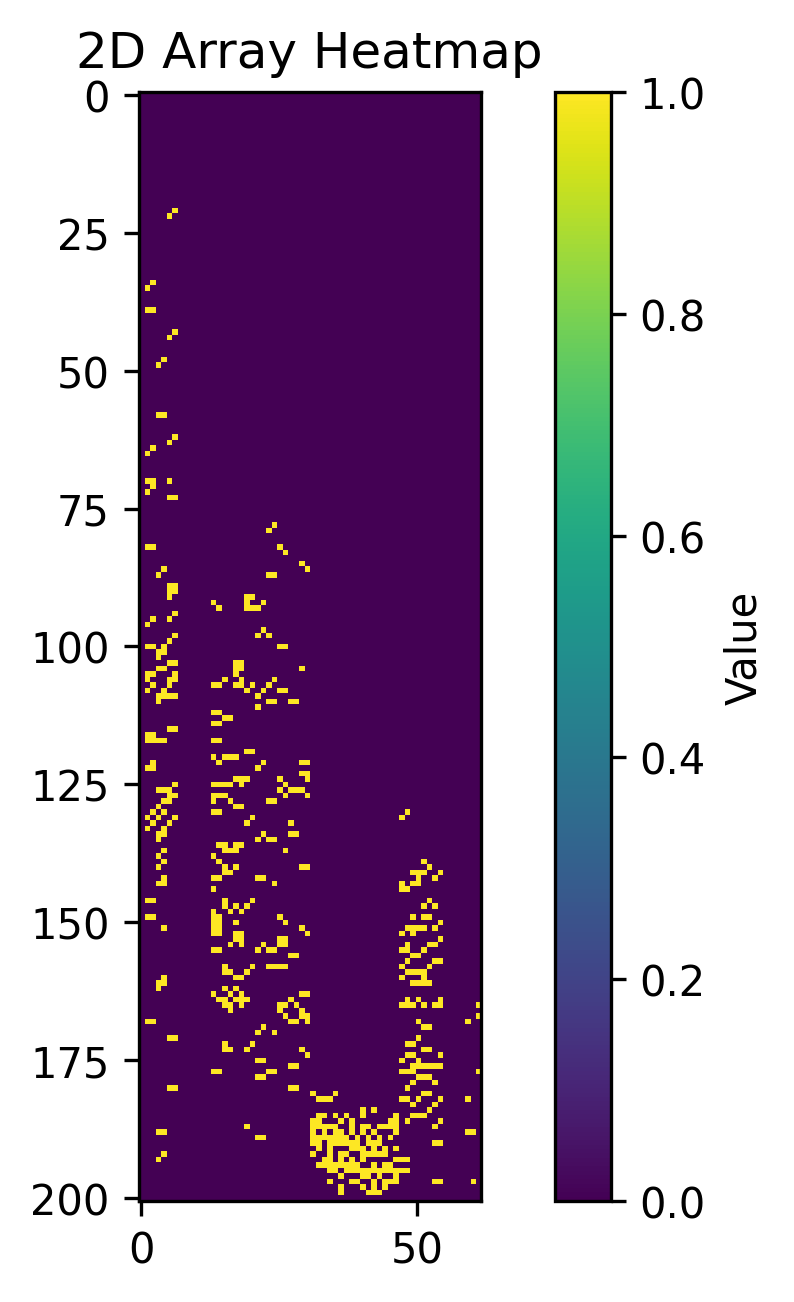
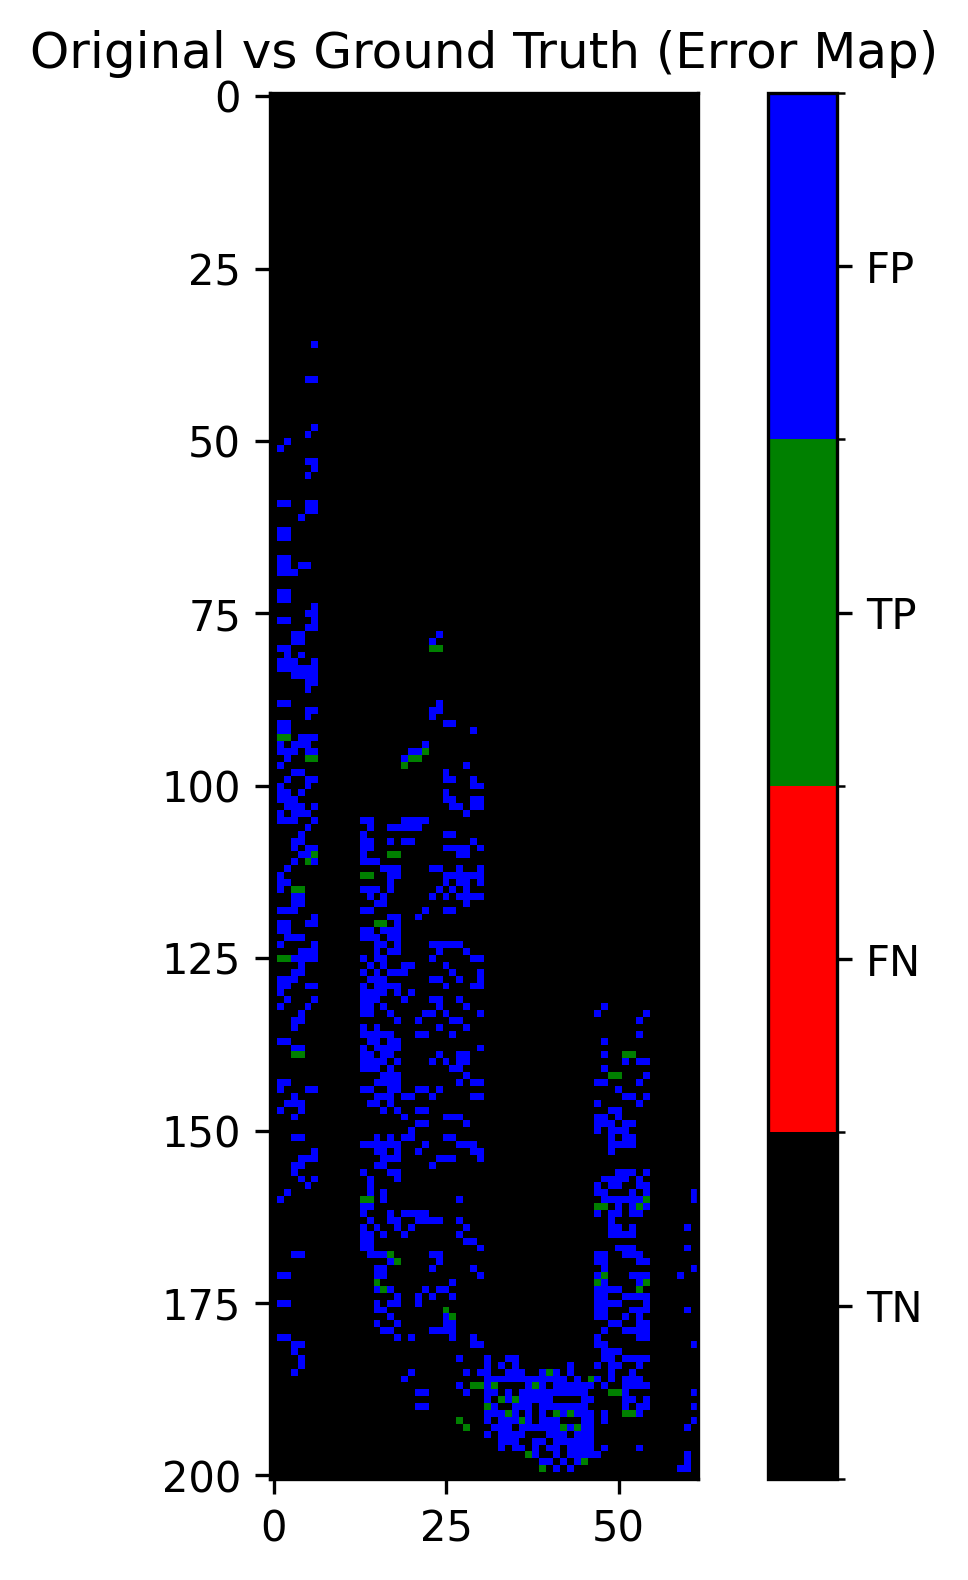
Uncommitted changes

diff --git a/QTracker_prod/models/TrackFinder_unetpp_seg.py b/QTracker_prod/models/TrackFinder_unetpp_seg.py
@@ -10,6 +10,7 @@ import numpy as np
 import ROOT
 import tensorflow as tf
 from tensorflow.keras import layers, regularizers
+import tensorflow.keras.backend as K
 from tensorflow.keras.callbacks import EarlyStopping, ReduceLROnPlateau
 from tensorflow.keras.optimizers import AdamW
 # from tensorflow.keras import mixed_precision
@@ -153,13 +154,6 @@ def train_model(args):
         X_val = denoise_model.predict(X_val)
         X_val = (X_val > 0.5).astype(np.float32)  # Binarize
 
-    lr_scheduler = ReduceLROnPlateau(
-        monitor="val_loss", factor=0.3, patience=args.patience // 3, min_lr=1e-6
-    )
-    early_stopping = EarlyStopping(
-        monitor="val_loss", patience=args.patience, restore_best_weights=True
-    )
-
     model = build_model(
         num_detectors=NUM_DETECTORS,
         num_elementIDs=NUM_ELEMENT_IDS, 
@@ -171,7 +165,7 @@ def train_model(args):
     model.summary()
 
     optimizer = AdamW(
-        learning_rate=args.learning_rate,
+        learning_rate=args.lr_low,
         weight_decay=args.weight_decay,
         clipnorm=args.clipnorm,
     )
@@ -181,6 +175,14 @@ def train_model(args):
     epochs_med = int(args.epochs * args.med_ratio)
     epochs_high = args.epochs
 
+    # Low complexity training
+    lr_scheduler = ReduceLROnPlateau(
+        monitor="val_loss", factor=args.factor, patience=args.lr_patience, min_lr=1e-6
+    )
+    early_stopping = EarlyStopping(
+        monitor="val_loss", patience=args.patience, restore_best_weights=False
+    )
+
     model.fit(
         X_train_low,
         y_train_low,
@@ -188,11 +190,12 @@ def train_model(args):
         epochs=epochs_low,
         batch_size=args.batch_size,
         validation_data=(X_val, y_val),
-        callbacks=[lr_scheduler],
+        callbacks=[lr_scheduler, early_stopping],
     )
     del X_train_low, y_train_low
     gc.collect()
 
+    # Medium complexity training
     X_train_med, y_muPlus_train_med, y_muMinus_train_med = load_data(args.train_root_file_med)
     if X_train_med is None:
         return
@@ -205,6 +208,15 @@ def train_model(args):
     y_train_med = np.stack(
         [y_muPlus_train_med, y_muMinus_train_med], axis=1
     )  # Shape: (num_events, 2, 62)
+
+    K.set_value(model.optimizer.learning_rate, args.lr_med)
+    lr_scheduler = ReduceLROnPlateau(
+        monitor="val_loss", factor=args.factor, patience=args.lr_patience, min_lr=1e-6
+    )
+    early_stopping = EarlyStopping(
+        monitor="val_loss", patience=args.patience, restore_best_weights=False
+    )
+
     model.fit(
         X_train_med,
         y_train_med,
@@ -212,11 +224,12 @@ def train_model(args):
         epochs=epochs_med,
         batch_size=args.batch_size,
         validation_data=(X_val, y_val),
-        callbacks=[lr_scheduler],
+        callbacks=[lr_scheduler, early_stopping],
     )
     del X_train_med, y_train_med
     gc.collect()
 
+    # High complexity training
     X_train_high, y_muPlus_train_high, y_muMinus_train_high = load_data(args.train_root_file_high)
     if X_train_high is None:
         return
@@ -229,6 +242,15 @@ def train_model(args):
     y_train_high = np.stack(
         [y_muPlus_train_high, y_muMinus_train_high], axis=1
     )  # Shape: (num_events, 2, 62)
+
+    K.set_value(model.optimizer.learning_rate, args.lr_high)
+    lr_scheduler = ReduceLROnPlateau(
+        monitor="val_loss", factor=args.factor, patience=args.lr_patience, min_lr=1e-6
+    )
+    early_stopping = EarlyStopping(
+        monitor="val_loss", patience=args.patience, restore_best_weights=True
+    )
+
     model.fit(
         X_train_high,
         y_train_high,
@@ -268,30 +290,45 @@ if __name__ == "__main__":
         help="Path to save the trained model.",
     )
     parser.add_argument(
-        "--learning_rate",
+        "--lr_low",
         type=float,
-        default=0.00005,
-        help="Learning rate for training.",
+        default=0.0003,
+        help="Learning rate for low complexity data.",
     )
     parser.add_argument(
-        "--patience", type=int, default=5, help="Patience for EarlyStopping."
+        "--lr_med",
+        type=float,
+        default=0.0001,
+        help="Learning rate for medium complexity data.",
+    )
+    parser.add_argument(
+        "--lr_high",
+        type=float,
+        default=0.00003,
+        help="Learning rate for high complexity data.",
+    )
+    parser.add_argument(
+        "--patience", type=int, default=12, help="Patience for EarlyStopping."
+    )
+    parser.add_argument(
+        "--lr_patience", type=int, default=4, help="Patience for learning rate scheduler."
     )
     parser.add_argument(
         "--batch_norm",
         type=int,
-        default=0,
+        default=1,
         help="Flag to set batch normalization: [0 = False, 1 = True].",
     )
     parser.add_argument(
         "--dropout_bn",
         type=float,
-        default=0.0,
+        default=0.5,
         help="Dropout rate for bottleneck layer.",
     )
     parser.add_argument(
         "--dropout_enc",
         type=float,
-        default=0.0,
+        default=0.4,
         help="Dropout rate for encoder blocks.",
     )
     parser.add_argument(
@@ -303,13 +340,13 @@ if __name__ == "__main__":
     parser.add_argument(
         "--epochs",
         type=int,
-        default=40,
+        default=60,
         help="Number of epochs in training.",
     )
     parser.add_argument(
         "--batch_size",
         type=int,
-        default=32,
+        default=64,
         help="Batch size for mini-batch gradient descent.",
     )
     parser.add_argument(
@@ -329,6 +366,12 @@ if __name__ == "__main__":
         type=str,
         default=None,
         help="Path to the saved denoiser model file (.h5 or .keras).",
+    )
+    parser.add_argument(
+        "--factor",
+        type=float,
+        default=0.3,
+        help="Factor for ReduceLROnPlateau.",
     )
     parser.add_argument(
         "--low_ratio",

diff --git a/QTracker_prod/evaluate_denoise.py b/QTracker_prod/evaluate_denoise.py
@@ -1,6 +1,7 @@
 import argparse
 import ROOT
 import numpy as np
+import matplotlib.colors as mcolors
 import matplotlib.pyplot as plt
 from models import data_loader
 from sklearn.metrics import confusion_matrix, classification_report
@@ -9,8 +10,8 @@ import tensorflow as tf
 
 if __name__ == "__main__":
     parser = argparse.ArgumentParser(description="Evaluate Denoise Model")
-    parser.add_argument("--val_file_path", type=str, default="data/processed_files/mc_events_val_denoise.root")
-    parser.add_argument("--denoise_model_path", type=str, default="checkpoints/track_finder_denoise.h5")
+    parser.add_argument("--val_file_path", type=str, default="data/processed_files/mc_events_val.root")
+    parser.add_argument("--model_path", type=str, default="checkpoints/track_finder_denoise.h5")
     args = parser.parse_args()
 
     X_test, X_clean_test, _, _ = data_loader.load_data_denoise(
@@ -18,34 +19,81 @@ if __name__ == "__main__":
     )
 
     denoise_model = tf.keras.models.load_model(
-        args.denoise_model_path,
+        args.model_path,
         compile=False,
     )
 
     X_clean_pred = denoise_model.predict(X_test)
-    X_clean_pred = (X_clean_pred > 0.5).astype(np.float32)
-
-    cm = confusion_matrix(X_clean_test.flatten(), X_clean_pred.flatten())
 
     print("Results (Confusion Matrix + Accuracy):")
-    print(classification_report(X_clean_test.flatten(), X_clean_pred.flatten(), digits=4))
-
+    print(classification_report(
+        X_clean_test.flatten(), 
+        (X_clean_pred > 0.5).astype(np.float32).flatten(), 
+        digits=4
+    ))
+    print(classification_report(
+        X_clean_test.flatten(), 
+        (X_clean_pred > 0.4).astype(np.float32).flatten(), 
+        digits=4
+    ))
+    print(classification_report(
+        X_clean_test.flatten(), 
+        (X_clean_pred > 0.3).astype(np.float32).flatten(), 
+        digits=4
+    ))
+    print(classification_report(
+        X_clean_test.flatten(), 
+        X_test.flatten(), 
+        digits=4
+    ))
 
     # Plot heatmap
-    X_test = X_test[0, :, :, 0].T[::-1]
-    X_clean_pred = X_clean_pred[0, :, :, 0].T[::-1]
-    X_clean_test = X_clean_test[0, :, :, 0].T[::-1]
+    X_test = (X_test[1, :, :, 0].T[::-1] > 0.5).astype(np.int32)
+    X_clean_pred = ((X_clean_pred > 0.5).astype(np.int32)[1, :, :, 0].T[::-1])
+    X_clean_test = (X_clean_test[1, :, :, 0].T[::-1]).astype(np.int32)
 
-    plt.imshow(X_test, cmap='viridis', interpolation='nearest')
-    plt.colorbar(label="Value")
-    plt.title("2D Array Heatmap")
-    plt.savefig("plots/original.png", dpi=300, bbox_inches='tight')
-    plt.close()  # optional: closes the figure so it doesn’t stay in memory
+    def make_error_map(true_mask, pred_mask):
+        """
+        Create categorical error map:
+        0 = TN, 1 = FN, 2 = TP, 3 = FP
+        """
+        error_map = np.zeros_like(true_mask, dtype=np.int32)
+        error_map[(true_mask == 1) & (pred_mask == 0)] = 1  # FN
+        error_map[(true_mask == 1) & (pred_mask == 1)] = 2  # TP
+        error_map[(true_mask == 0) & (pred_mask == 1)] = 3  # FP
+        return error_map
+
+    # Define colormap (categorical)
+    cmap = mcolors.ListedColormap(["black", "red", "green", "blue"])
+    bounds = [0,1,2,3,4]
+    norm = mcolors.BoundaryNorm(bounds, cmap.N)
+
+    # --- 1. Original Input compared to Ground Truth ---
+    error_map_original = make_error_map(X_clean_test, X_test)
+
+    plt.figure(figsize=(6,6))
+    im = plt.imshow(error_map_original, cmap=cmap, norm=norm, interpolation="nearest")
+    cbar = plt.colorbar(im, ticks=[0.5,1.5,2.5,3.5])
+    cbar.ax.set_yticklabels(["TN","FN","TP","FP"])
+    plt.title("Original vs Ground Truth (Error Map)")
+    plt.savefig("plots/original.png", dpi=300, bbox_inches="tight")
+    plt.close()
+
+    # --- 2. Denoised Prediction compared to Ground Truth ---
+    error_map_denoised = make_error_map(X_clean_test, X_clean_pred)
+
+    plt.figure(figsize=(6,6))
+    im = plt.imshow(error_map_denoised, cmap=cmap, norm=norm, interpolation="nearest")
+    cbar = plt.colorbar(im, ticks=[0.5,1.5,2.5,3.5])
+    cbar.ax.set_yticklabels(["TN","FN","TP","FP"])
+    plt.title("Denoised vs Ground Truth (Error Map)")
+    plt.savefig("plots/denoised.png", dpi=300, bbox_inches="tight")
+    plt.close()
 
     plt.imshow(X_clean_pred, cmap='viridis', interpolation='nearest')
     plt.colorbar(label="Value")
     plt.title("2D Array Heatmap")
-    plt.savefig("plots/denoised.png", dpi=300, bbox_inches='tight')
+    plt.savefig("plots/denoised_heatmap.png", dpi=300, bbox_inches='tight')
     plt.close()  # optional: closes the figure so it doesn’t stay in memory
 
     plt.imshow(X_clean_test, cmap='viridis', interpolation='nearest')

diff --git a/QTracker_prod/data/messy_gen_v4.py b/QTracker_prod/data/messy_gen_v4.py
@@ -4,7 +4,7 @@ from array import array
 import random
 
 # Detector efficiency probability
-NUM_TRACKS = 30
+NUM_TRACKS = 50
 PROB_MEAN = 0.9
 PROB_WIDTH = 0.1
 
